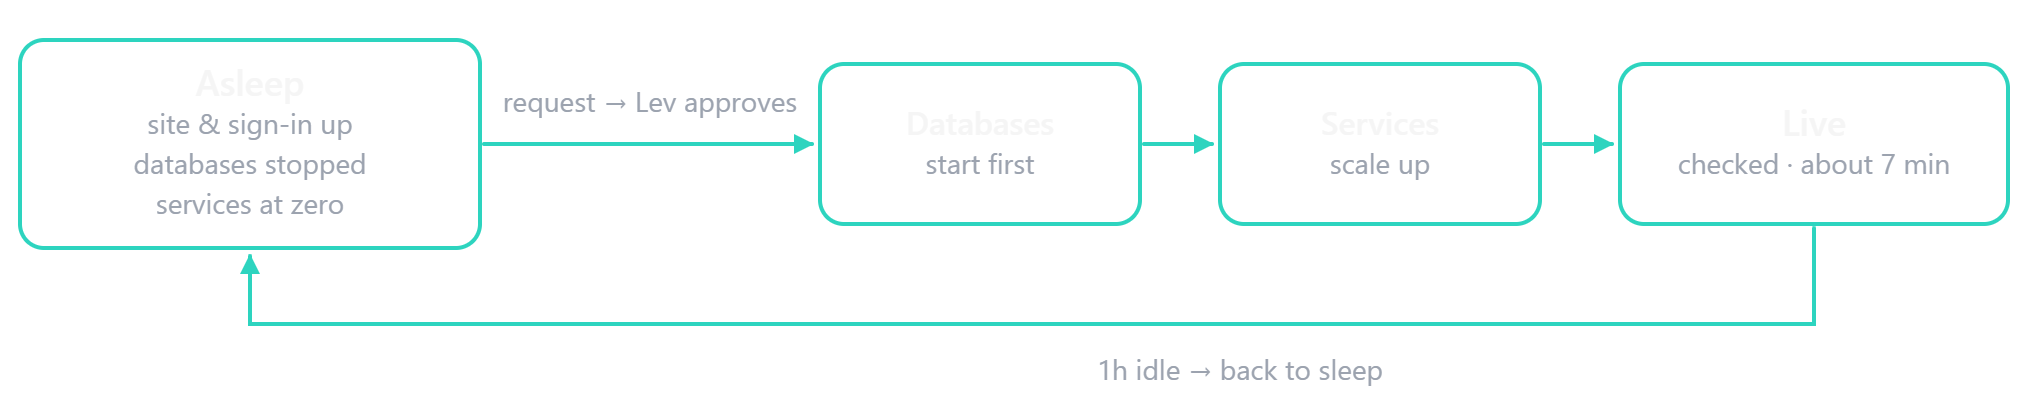
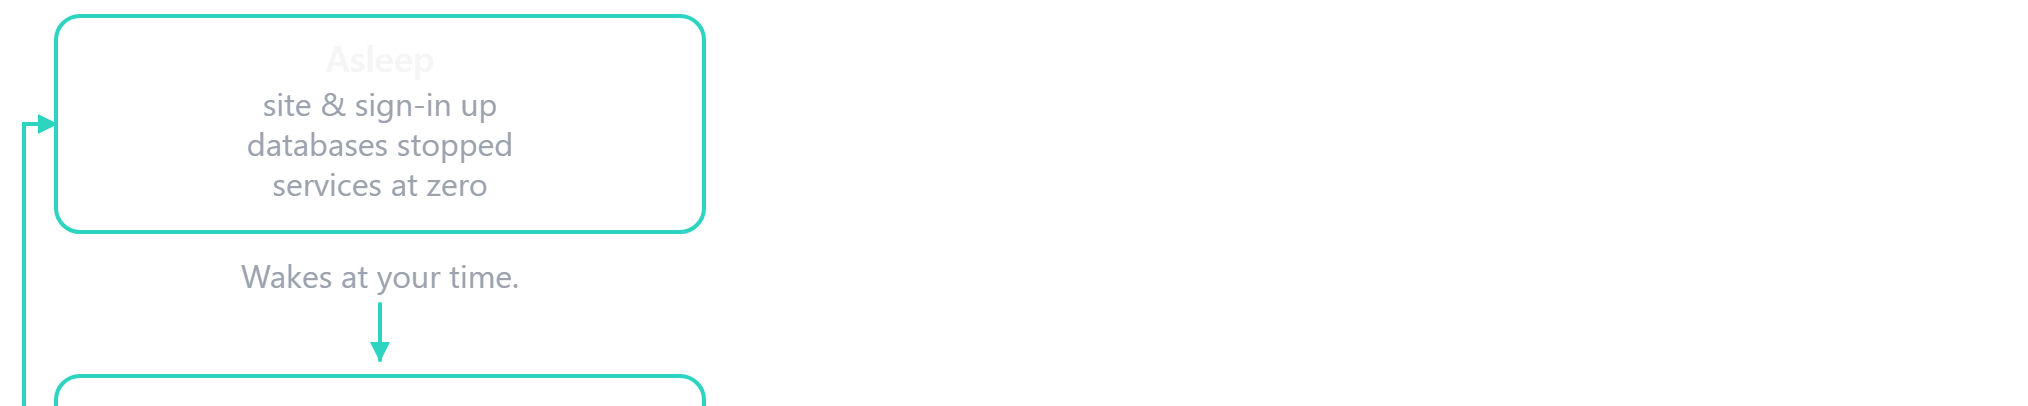
Update the portal copy, wake strip, and console links.
Apply the accepted form lines, one Proof 70 percent, the sign-in line, and the ordered trail. Point walkthroughs at the request form and drop the LiteLLM gateway link.

diff --git a/olympus/sleep.js b/olympus/sleep.js
@@ -80,7 +80,7 @@
     var figure = el("figure", "panel-diagram");
     var img = document.createElement("img");
     img.src = "diagrams/soft-down.png";
-    var caption = "Asleep, with the site and sign-in still up. On request, Lev approves, databases start, services come up, and it is live in about 7 min. After an hour with no use, it goes back to sleep.";
+    var caption = "You pick a time. Lev approves. It starts then and is live in about 7 min.";
     img.className = "sleep-strip-desk";
     img.alt = caption;
     img.width = 1014;
@@ -106,7 +106,7 @@
   }
 
   function renderRequested() {
-    panel.appendChild(pill("is-wait", "Request sent. Lev will reply by email."));
+    panel.appendChild(pill("is-wait", "Sent. Lev replies by email."));
     panel.appendChild(el("h2", null, "The console, live"));
   }
 
@@ -229,7 +229,7 @@
   function renderForm(where) {
     var form = el("form", "sleep-form");
     form.noValidate = true;
-    form.appendChild(el("h2", "sleep-form-title", "See it running"));
+    form.appendChild(el("h2", "sleep-form-title", "See it live"));
     var rowName = el("div", "sleep-row");
     rowName.appendChild(field("Name", "text", "name", true));
     rowName.appendChild(field("Company", "text", "company", true));
@@ -238,7 +238,7 @@
     form.appendChild(rowName);
     form.appendChild(rowMail);
     var whenLabel = el("label");
-    whenLabel.appendChild(document.createTextNode("When should it wake?"));
+    whenLabel.appendChild(document.createTextNode("Pick a time"));
     var whenInput = document.createElement("input");
     whenInput.type = "datetime-local";
     whenInput.name = "when";
@@ -246,7 +246,7 @@
     whenLabel.appendChild(whenInput);
     var whenWrap = el("div");
     whenWrap.appendChild(whenLabel);
-    whenWrap.appendChild(el("p", "sleep-tiny", "Times are Israel time (Asia/Jerusalem). Now " + israelClock(Date.now()) + "."));
+    whenWrap.appendChild(el("p", "sleep-tiny", "Israel time. Now " + israelClock(Date.now()) + "."));
     whenWrap.hidden = where === "elsewhere";
     form.appendChild(whenWrap);
     var legend = el("span", "sleep-muted", "Where are you?");
@@ -264,10 +264,10 @@
     var error = el("p", "sleep-error");
     error.hidden = true;
     form.appendChild(error);
-    var send = el("button", "btn btn-primary sleep-cta", "Send request");
+    var send = el("button", "btn btn-primary sleep-cta", "Request");
     send.type = "submit";
     form.appendChild(send);
-    form.appendChild(el("p", "sleep-tiny", "Lev reads every request himself."));
+    form.appendChild(el("p", "sleep-tiny", "Lev reads each one."));
     form.addEventListener("submit", function (event) {
       event.preventDefault();
       submitForm(form, error);

diff --git a/olympus/cursor/index.html b/olympus/cursor/index.html
@@ -39,11 +39,11 @@
           <p>A five-step security and config hardening: 19 PRs across 6 repos. Each step merged only after my GO.</p>
           <div class="trail">
             <p><strong>Full trail</strong></p>
-            <p>D: ai-platform <a rel="noopener noreferrer" target="_blank" href="https://github.com/LevKesha/ai-platform/pull/32">#32</a>, infrastructure #13 (private), llm-cost #9 (private)</p>
-            <p>E: ai-platform <a rel="noopener noreferrer" target="_blank" href="https://github.com/LevKesha/ai-platform/pull/33">#33</a>, <a rel="noopener noreferrer" target="_blank" href="https://github.com/LevKesha/ai-platform/pull/34">#34</a>, infrastructure #14, #15, #16 (private), cicd #4 (private)</p>
             <p>A: ai-platform <a rel="noopener noreferrer" target="_blank" href="https://github.com/LevKesha/ai-platform/pull/35">#35</a>, infrastructure #17 (private), llm-cost #10 (private), agent-api #22 (private)</p>
             <p>B: ai-platform <a rel="noopener noreferrer" target="_blank" href="https://github.com/LevKesha/ai-platform/pull/36">#36</a>, llm-cost #11 (private)</p>
             <p>C: ai-platform <a rel="noopener noreferrer" target="_blank" href="https://github.com/LevKesha/ai-platform/pull/37">#37</a>, llm-cost #12 (private), agent-api #23 (private), rag-service #3 (private)</p>
+            <p>D: ai-platform <a rel="noopener noreferrer" target="_blank" href="https://github.com/LevKesha/ai-platform/pull/32">#32</a>, infrastructure #13 (private), llm-cost #9 (private)</p>
+            <p>E: ai-platform <a rel="noopener noreferrer" target="_blank" href="https://github.com/LevKesha/ai-platform/pull/33">#33</a>, <a rel="noopener noreferrer" target="_blank" href="https://github.com/LevKesha/ai-platform/pull/34">#34</a>, infrastructure #14, #15, #16 (private), cicd #4 (private)</p>
           </div>
         </li>
         <li>
@@ -59,7 +59,6 @@
         <li>Find the root cause before fixing.</li>
         <li>Review screenshots, not just diffs.</li>
       </ul>
-      <p class="diagram-source">Diagram source: olympus-agent-company-cursor-v5.drawio · grouped inventory 7+16+8+10</p>
       <div class="btnrow">
         <a class="btn btn-primary" href="../console.html">Open console</a>
         <a class="btn" href="../architecture.html">See Architecture</a>

diff --git a/olympus/console.html b/olympus/console.html
@@ -24,7 +24,7 @@
 
   <section class="sleep-portal" id="sleep-portal" aria-labelledby="sleep-title" data-endpoint="/wake" data-demo="/cv-jobs/">
     <h1 id="sleep-title">Console</h1>
-    <p class="sleep-sub">The real platform, asleep between visits. Request a look to see it running.</p>
+    <p class="sleep-sub">Request a look. It wakes at the time you pick.</p>
     <div class="sleep-card">
       <div class="sleep-poster" id="sleep-poster"></div>
       <div class="sleep-panel" id="sleep-panel"></div>
@@ -93,12 +93,10 @@
             <path d="M1070 280 V340 H890"></path>
           </g>
           <g fill="#0a0a0a" stroke="#2dd4bf" stroke-width="1">
-            <rect x="646" y="219" width="108" height="22" rx="11"></rect>
             <rect x="921" y="198" width="58" height="22" rx="11"></rect>
             <rect x="1031" y="310" width="78" height="22" rx="11"></rect>
           </g>
           <g fill="#2dd4bf" font-family="Segoe UI, system-ui, sans-serif" font-size="11" text-anchor="middle">
-            <text x="700" y="234">optional hop</text>
             <text x="950" y="213">beside</text>
             <text x="1070" y="325">webhook</text>
           </g>
@@ -126,8 +124,8 @@
           <dd>The servers where the services run.</dd>
           <dt>beside</dt>
           <dd>Next to it, not inside it.</dd>
-          <dt>optional hop</dt>
-          <dd>An extra stop only when that path is turned on.</dd>
+          <dt>LiteLLM</dt>
+          <dd>Every AI request goes through here.</dd>
           <dt>sidecar</dt>
           <dd>A helper that runs next to the main service.</dd>
           <dt>webhook</dt>

diff --git a/olympus/architecture.html b/olympus/architecture.html
@@ -27,7 +27,7 @@
       <figure class="arch-block">
         <a href="architecture-view.html#edge"><img src="diagrams/edge-three-band-v4.png" alt="Olympus edge three-band: public, auth-gated, and cluster-internal. CloudFront and Cognito outside the VPC. ALB, EKS, and NAT inside eu-central-1."></a>
         <h2>Three ways in.</h2>
-        <p>The public door is n8n. Sign-in covers CV and jobs, LiteLLM, and Headroom. Spend stays inside the cluster.</p>
+        <p>The public door is n8n. Sign-in covers CV×Jobs and AI spend control. Spend stays inside the cluster.</p>
       </figure>
       <figure class="arch-block">
         <a href="architecture-view.html#cluster"><img src="diagrams/k8s-internal-hero-v4.png" alt="Inside the cluster on dev-cluster in eu-central-1. Ship lane from GitHub Actions to ECR to Helm. Runtime lane from ingress to agent-api, mcp-server, rag-service, and llm-spend."></a>
@@ -35,7 +35,7 @@
         <p>This is the middle of that picture, up close. The API, retrieval, and the tool connections run here, with n8n beside them.</p>
       </figure>
       <figure class="arch-block">
-        <a href="architecture-view.html#cv-jobs"><img src="diagrams/b1-cv-jobs-seq-v4.png" alt="CV times Jobs sequence: Master CV, Fit, Tailor, TXT. LiteLLM optional."></a>
+        <a href="architecture-view.html#cv-jobs"><img src="diagrams/b1-cv-jobs-seq-v4.png" alt="CV times Jobs sequence: Master CV, Fit, Tailor, TXT, through LiteLLM."></a>
         <h2>CV and jobs.</h2>
         <p>The signed-in path. Score a CV against the jobs you paste, then tailor it for the one you want.</p>
       </figure>

diff --git a/olympus/evidence.html b/olympus/evidence.html
@@ -49,7 +49,7 @@
         <p class="ev-tag">Built in agent-api</p>
         <h3 id="cvjobs">CV×Jobs</h3>
         <p class="ev-product-line">Score a CV against the jobs you paste, then tailor it for the one you want. A full product, built and run on this platform.</p>
-        <div class="ev-actions"><a class="btn" href="/">Request a walkthrough</a></div>
+        <div class="ev-actions"><a class="btn" href="console.html?state=form">Request a walkthrough</a></div>
       </article>
     </section>
 
@@ -80,7 +80,7 @@
       <section class="ev-group" aria-labelledby="g-demo">
         <h2 id="g-demo" class="ev-group-title">See it running</h2>
         <!-- placeholder link until the request form exists -->
-        <a class="ev-card ev-card-link" href="/"><h3 class="mono">n8n</h3><p class="ev-demo-line">n8n workflows on their own host. Live demo, by walkthrough.</p><p class="ev-cta">Request a walkthrough <span aria-hidden="true">→</span></p></a>
+        <a class="ev-card ev-card-link" href="console.html?state=form"><h3 class="mono">n8n</h3><p class="ev-demo-line">n8n workflows on their own host. Live demo, by walkthrough.</p><p class="ev-cta">Request a walkthrough <span aria-hidden="true">→</span></p></a>
       </section>
     </div>
 

diff --git a/olympus/proof.html b/olympus/proof.html
@@ -30,7 +30,6 @@
         <ul class="case-bullets">
           <li>Own global AWS platform reliability supporting 3,000+ users, 10+ sites, 1,500+ VMs (24/7 mission-critical production lines), and 60 AWS accounts in the organization.</li>
           <li>Re-architect and modernize services (on-prem -&gt; AWS, legacy cloud -&gt; modern AWS) with a focus on security, availability, operational excellence, and cost optimization (up to 70% of savings).</li>
-          <li>Cost optimization up to 70% of savings, where the waste was real.</li>
           <li>Design and implement AWS governance and access foundations: AWS Organizations, Control Tower, and IAM Identity Center (SSO).</li>
           <li>Deploy and operate core AWS services hands-on: VPC, EC2, S3, RDS, Route 53, Lambda, ALB/NLB, and Auto Scaling Groups; support EKS.</li>
           <li>Standardize operations via automation integrated into CI/CD and release processes; improve stability with monitoring/alerting and incident response (detection -&gt; RCA -&gt; remediation).</li>

diff --git a/olympus/console-data.js b/olympus/console-data.js
@@ -11,7 +11,7 @@ window.OLYMPUS_CONSOLE = {
     subline: "Score a CV against the jobs you paste, then tailor it for the one you want.",
     badges: ["Behind sign-in", "Not LinkedIn auto-apply"],
     cta: "Request a walkthrough",
-    ctaHref: "/",
+    ctaHref: "console.html?state=form",
   },
   spend: {
     title: "AI spend control",
@@ -33,7 +33,7 @@ window.OLYMPUS_CONSOLE = {
     subline: "The automations that tie the platform together.",
     pill: "Request a look.",
     cta: "Request a look",
-    ctaHref: "#sleep-portal",
+    ctaHref: "console.html?state=form",
     workflows: [
       {
         label: "One request in, the right service answers",
@@ -49,7 +49,7 @@ window.OLYMPUS_CONSOLE = {
       },
     ],
   },
-  edgePaths: ["/cv-jobs", "/v1/demo", "/headroom", "/v1/hr", "/litellm", "/litellm/ui"],
+  edgePaths: ["/cv-jobs", "/v1/demo", "/headroom", "/v1/hr"],
   empty: {
     privateRepo:
       "Private repository. No public GitHub link. Evidence is described here; source is not linked.",

diff --git a/olympus/architecture-view.html b/olympus/architecture-view.html
@@ -30,7 +30,7 @@
       <img src="diagrams/k8s-internal-hero-v4.png" alt="Inside the cluster on dev-cluster in eu-central-1. Ship lane from GitHub Actions to ECR to Helm. Runtime lane from ingress to agent-api, mcp-server, rag-service, and llm-spend.">
     </figure>
     <figure class="viewer-shot" id="cv-jobs">
-      <img src="diagrams/b1-cv-jobs-seq-v4.png" alt="CV times Jobs sequence: Master CV, Fit, Tailor, TXT. LiteLLM optional.">
+      <img src="diagrams/b1-cv-jobs-seq-v4.png" alt="CV times Jobs sequence: Master CV, Fit, Tailor, TXT, through LiteLLM.">
     </figure>
     <figure class="viewer-shot" id="spend">
       <img src="diagrams/b2-cost-spend-loop-v4.png" alt="Spend loop in namespace llm-cost: llm-spend, Headroom savings, LiteLLM.">

diff --git a/olympus/styles.css b/olympus/styles.css
@@ -102,7 +102,7 @@ a:hover {
 }
 
 .brand {
-  font-family: var(--font-serif);
+  font-family: var(--font-sans);
   font-size: 18px;
   font-weight: 500;
   letter-spacing: 0.01em;
@@ -1387,7 +1387,6 @@ body.page-overview {
   display: block;
   width: 100%;
   height: auto;
-  background: #fff;
 }
 
 .arch-block h2 {
@@ -2109,12 +2108,6 @@ body.sleep-shot #private-modal {
   border-radius: 999px;
   color: #d4d4d4;
   font-size: 13px;
-}
-
-.page-cursor .diagram-source {
-  margin: 0.7rem 0 0;
-  color: #a3a3a3;
-  font-size: 12.5px;
 }
 
 .page-cursor .btnrow {

diff --git a/olympus/console.js b/olympus/console.js
@@ -118,7 +118,6 @@
       "</span></p>" +
       '<figure class="panel-diagram"><img src="diagrams/spend-loop.svg" alt="Spend: CV×Jobs and the automations can send requests through the LiteLLM gateway. Headroom shortens long prompts. Spend is logged in one place." width="1016" height="444" loading="lazy"></figure>' +
       '<p class="anon-actions"><a class="btn btn-primary" href="/headroom">Sign in</a></p>' +
-      '<p class="anon-quiet"><a href="/litellm/ui">AI gateway</a></p>' +
       '<ul class="panel-lines">' +
       lines +
       "</ul></section>"

diff --git a/olympus/README.md b/olympus/README.md
@@ -42,7 +42,7 @@ Hosted UI and managed login cannot set the strings "The Olympus" or "Sign in to 
 
 ## Console
 
-`console.js` switches views from `console-data.js`. Views: Glossary, CV×Jobs, AI spend control, n8n. Unknown hashes open Glossary. CV×Jobs and `gated.html` show a read-only sample with no live figures. AI spend control does not. CV×Jobs has one sign-in button to `/cv-jobs/`. AI spend control has one Sign in button to `/headroom` under the diagram, and the AI gateway is a text link to `/litellm/ui`. The asleep page keeps one quiet sign-in link, and Request a look is the only main button. The sample does not call those apps and does not include credentials.
+`console.js` switches views from `console-data.js`. Views: Glossary, CV×Jobs, AI spend control, n8n. Unknown hashes open Glossary. CV×Jobs and `gated.html` show a read-only sample with no live figures. AI spend control does not. CV×Jobs has one sign-in button to `/cv-jobs/`. AI spend control has one Sign in button to `/headroom` under the diagram. The asleep page keeps one quiet sign-in link, and Request a look is the only main button. The sample does not call those apps and does not include credentials.
 
 Verified copy lives in `public-data.js`. Do not invent metrics or extra public URLs.
 
